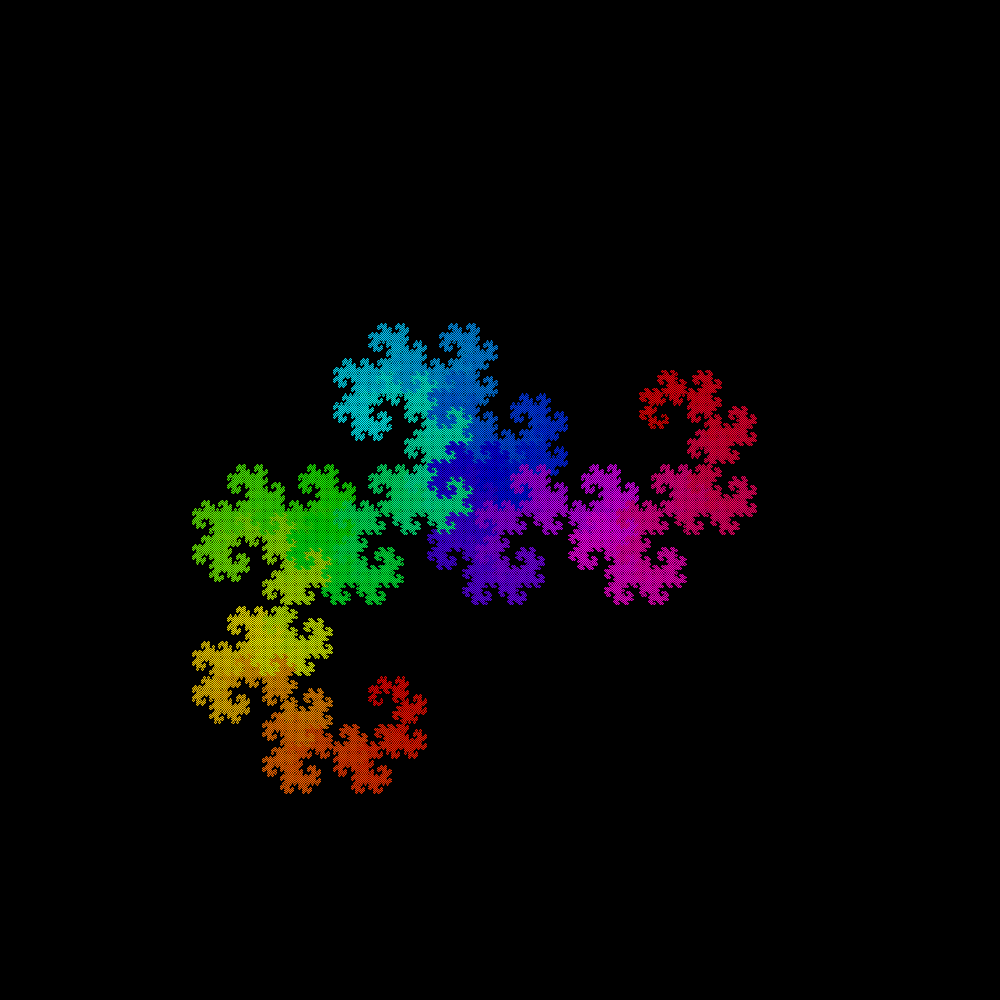
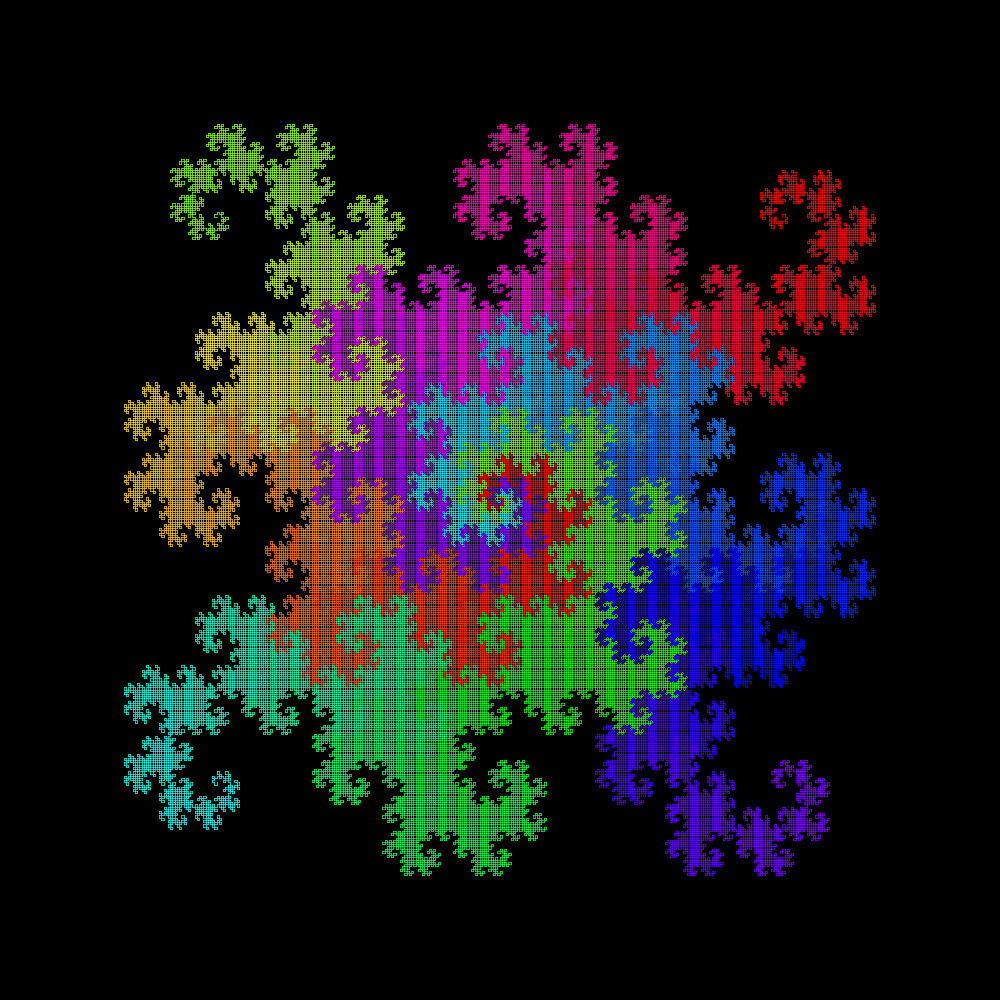
Make the dragon tesselate

Changed region(s): [[0.124, 0.124, 0.899, 0.899]]

diff --git a/fractals.py b/fractals.py
@@ -159,19 +159,20 @@ sierpinski = LSystemFractal(
 
 dragon = LSystemFractal(
     "The Dragon Curve",
-    "0FX",
-    # TODO: basically no idea about dragon dimensions, this is all guesswork.
+    "0[FX]-[FX]-[FX]-FX",
     lambda d: 2 * 2 ** (d / 2.0),
     {"X": "X+YF+",
      "Y": "-FX-Y"},
     lambda t, d: {"F": lambda: draw(t.forward(1)),
                   "-": lambda: nodraw(t.turn_degrees(+90)),
                   "+": lambda: nodraw(t.turn_degrees(-90)),
-                  "0": lambda: nodraw(t.turn_degrees(45 + 45 * d),
-                                      t.jump(0.35, 0.25)),
+                  "0": lambda: nodraw(t.jump(0.5, 0.5),
+                                      t.turn_degrees(45 * (d % 2 + 1))),
+                  "[": lambda: nodraw(t.save_state()),
+                  "]": lambda: nodraw(t.restore_state()),
                   "X": nodraw,
                   "Y": nodraw},
-    16)
+    15)
 
 fern = LSystemFractal(
     "A Lindenmayer Fern",
@@ -184,8 +185,8 @@ fern = LSystemFractal(
                   "-": lambda: nodraw(t.turn_degrees(+25)),
                   "+": lambda: nodraw(t.turn_degrees(-25)),
                   "X": nodraw,
-                  "[": t.save_state,
-                  "]": t.restore_state,
+                  "[": lambda: nodraw(t.save_state()),
+                  "]": lambda: nodraw(t.restore_state()),
                   "0": lambda: nodraw(t.jump(0.5, 0),
                                       t.setheading_degrees(90))},
     8)
